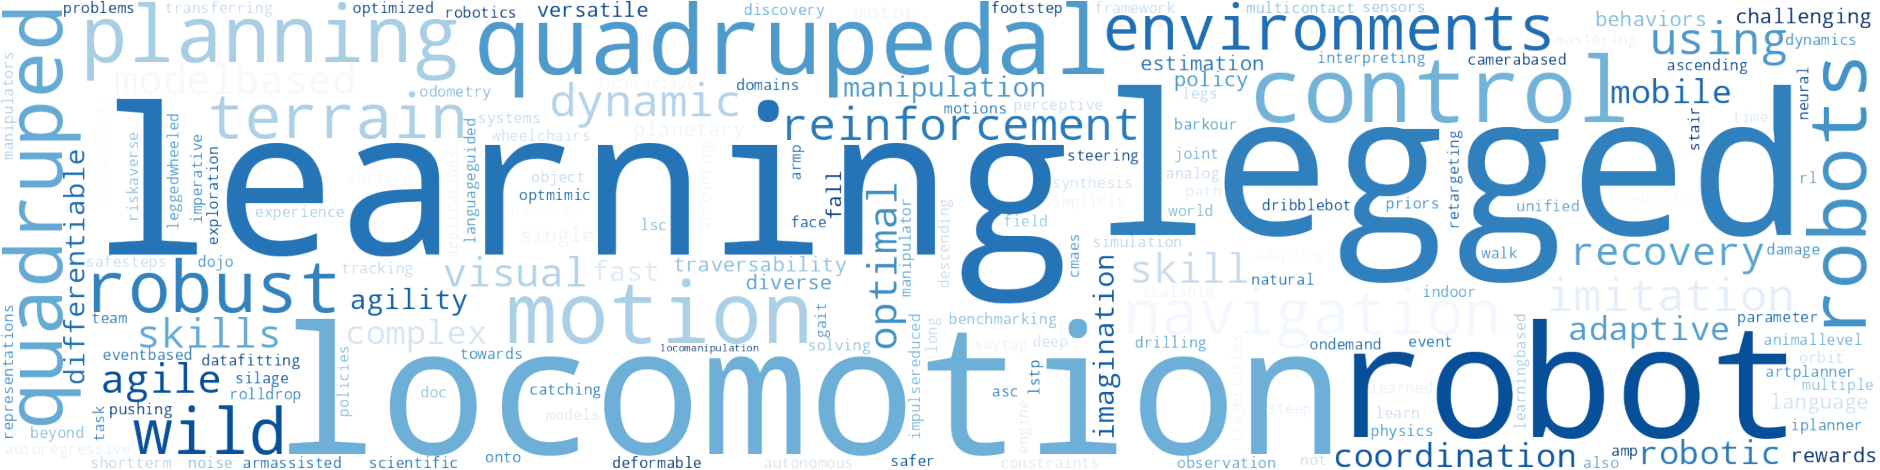
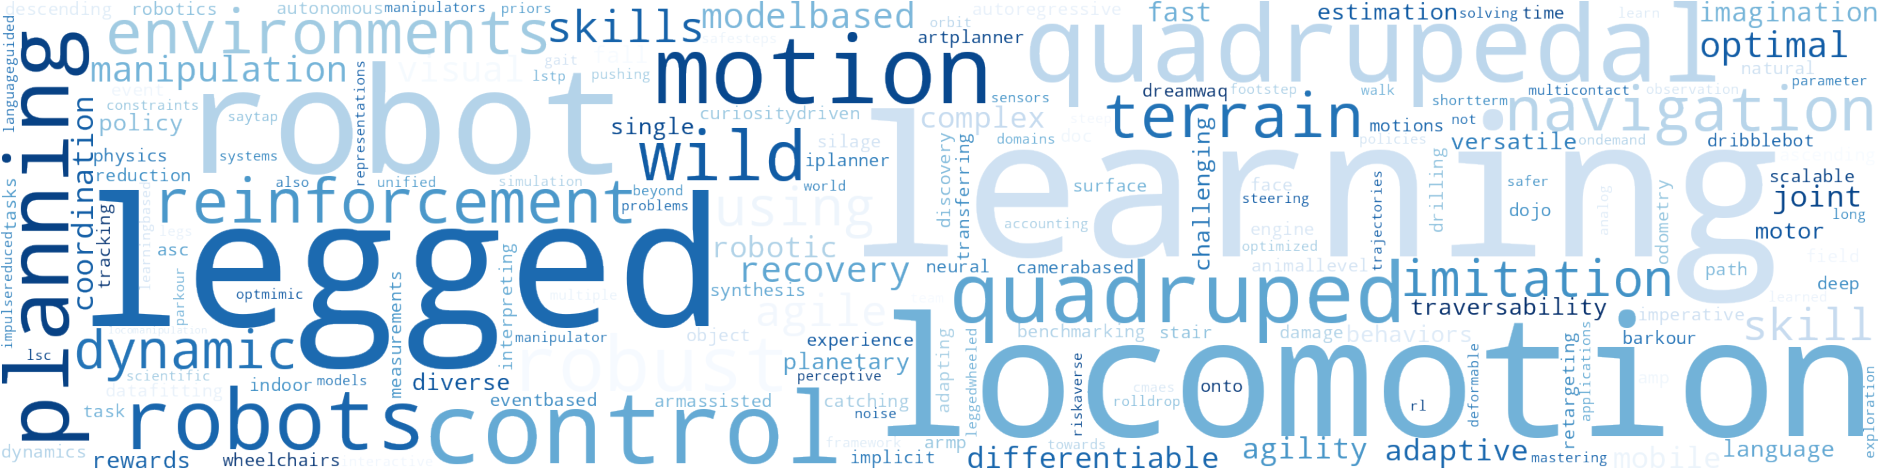
add papers in 2023

diff --git a/assets/word_cloud.py b/assets/word_cloud.py
@@ -20,21 +20,58 @@ stopwords = set([
 # 1. Get the paper list from the user
 # papers_input = input("Please provide the list of papers:\n")
 papers_input = """
-- [ANYmal - a highly mobile and dynamic quadrupedal robot](https://doi.org/10.1109/IROS.2016.7758092)
-- [Design of HyQ – a hydraulically and electrically actuated quadruped robot](https://doi.org/10.1177/0959651811402275)
-- [High-slope terrain locomotion for torque-controlled quadruped robots](https://link.springer.com/article/10.1007/s10514-016-9573-1)
-- [Meta Learning Shared Hierarchies](https://doi.org/10.48550/arXiv.1710.09767)
-- [Robot-Centric Elevation Mapping with Uncertainty Estimates](https://doi.org/10.1142/9789814623353_0051)
-- [Slip Detection and Recovery for Quadruped Robots](https://doi.org/10.1016/j.robot.2005.07.002)
-- [State Estimation for Legged Robots - Consistent Fusion of Leg Kinematics and IMU](https://doi.org/10.7551/mitpress/9816.001.0001)
-- [Survey of Numerical Methods for Trajectory Optimization](https://arc.aiaa.org/doi/10.2514/2.4231)
-- [Terrain-adaptive locomotion skills using deep reinforcement learning](https://dl.acm.org/doi/10.1145/2897824.2925881)
-- [Wholebody trajectory optimization for non-periodic dynamic motions on quadrupedal systems](https://ieeexplore.ieee.org/document/7989623)
+- [AMP in the wild: Learning robust, agile, natural legged locomotion skills](https://arxiv.org/abs/2304.10888)
+- [ARMP: Autoregressive Motion Planning for Quadruped Locomotion and Navigation in Complex Indoor Environments](https://arxiv.org/abs/2303.15900)
+- [ArtPlanner: Robust Legged Robot Navigation in the Field](https://arxiv.org/abs/2303.01420)
+- [ASC: Adaptive Skill Coordination for Robotic Mobile Manipulation](https://arxiv.org/abs/2304.00410)
+- [Autonomous Stair Ascending and Descending by Quadruped Wheelchairs](https://ieeexplore.ieee.org/abstract/document/10202377)
+- [Barkour: Benchmarking Animal-level Agility with Quadruped Robots](https://arxiv.org/abs/2305.14654)
+- [Curiosity-Driven Learning for Joint Locomotion and Manipulation Tasks](https://openreview.net/forum?id=QG_ERxtDAP-)
+- [DOC: Differentiable Optimal Control for Retargeting Motions onto Legged Robots](https://la.disneyresearch.com/wp-content/uploads/DOC_paper.pdf)
+- [Dojo: A Differentiable Physics Engine for Robotics](https://arxiv.org/abs/2203.00806)
+- [DreamWaQ: Learning Robust Quadrupedal Locomotion With Implicit Terrain Imagination via Deep Reinforcement Learning](https://arxiv.org/abs/2301.10602)
+- [DribbleBot: Dynamic Legged Manipulation in the Wild](https://gmargo11.github.io/dribblebot/rsc/dribblebot_paper.pdf)
+- [Drilling Task with a Quadruped Robot for Silage Face Measurements](https://www.researchgate.net/publication/370765569_Drilling_Task_with_a_Quadruped_Robot_for_Silage_Face_Measurements)
+- [Event Camera-based Visual Odometry for Dynamic Motion Tracking of a Legged Robot Using Adaptive Time Surface](https://arxiv.org/abs/2305.08962)
+- [Event-based Agile Object Catching with a Quadrupedal Robot](https://arxiv.org/abs/2303.17479)
+- [Fast Traversability Estimation for Wild Visual Navigation](https://arxiv.org/abs/2305.08510)
+- [Fast Traversability Estimation for Wild Visual Navigation](https://arxiv.org/abs/2305.08510)
+- [From Data-Fitting to Discovery: Interpreting the Neural Dynamics of Motor Control through Reinforcement Learning](https://arxiv.org/abs/2305.11107)
+- [iPlanner: Imperative Path Planning](https://arxiv.org/abs/2302.11434)
+- [Language to Rewards for Robotic Skill Synthesis](https://arxiv.org/abs/2306.08647)
+- [Learning a Single Policy for Diverse Behaviors on a Quadrupedal Robot using Scalable Motion Imitation](https://arxiv.org/abs/2303.15331)
+- [Learning and Adapting Agile Locomotion Skills by Transferring Experience](https://arxiv.org/abs/2304.09834)
+- [Learning Arm-Assisted Fall Damage Reduction and Recovery for Legged Mobile Manipulators](https://www.research-collection.ethz.ch/handle/20.500.11850/595246)
+- [Learning Complex Motor Skills for Legged Robot Fall Recovery](https://ieeexplore.ieee.org/document/10138662/)
+- [Learning Impulse-Reduced Gait for Quadruped Robot using CMA-ES](https://ieeexplore.ieee.org/abstract/document/10202519)
+- [Learning quadrupedal locomotion on deformable terrain](https://www.science.org/doi/full/10.1126/scirobotics.ade2256)
+- [Learning to Walk by Steering: Perceptive Quadrupedal Locomotion in Dynamic Environments](https://arxiv.org/abs/2209.09233)
+- [Legs as Manipulator: Pushing Quadrupedal Agility Beyond Locomotion](https://arxiv.org/abs/2303.11330)
+- [LSC: Language-guided Skill Coordination](https://languageguidedskillcoordination.github.io/)
+- [LSTP: Long Short-Term Motion Planning for Legged and Legged-Wheeled Systems](https://www.research-collection.ethz.ch/handle/20.500.11850/625515)
+- [Mastering Diverse Domains through World Models](https://arxiv.org/abs/2301.04104)
+- [Not Only Rewards But Also Constraints: Applications on Legged Robot Locomotion](https://arxiv.org/abs/2308.12517)
+- [OPT-Mimic: Imitation of Optimized Trajectories for Dynamic Quadruped Behaviors](https://arxiv.org/abs/2210.01247)
+- [ORBIT: A Unified Simulation Framework for Interactive Robot Learning Environments](https://ieeexplore.ieee.org/abstract/document/10107764)
+- [Reinforcement Learning for Legged Robots: Motion Imitation from Model-Based Optimal Control](https://arxiv.org/abs/2305.10989)
+- [Reinforcement Learning from Multiple Sensors via Joint Representations](https://arxiv.org/abs/2302.05342)
+- [RL + Model-based Control: Using On-demand Optimal Control to Learn Versatile Legged Locomotion](https://arxiv.org/abs/2305.17842)
+- [Robot Parkour Learning](https://openreview.net/forum?id=uo937r5eTE)
+- [Robust Quadrupedal Locomotion via Risk-Averse Policy Learning](https://arxiv.org/abs/2308.09405)
+- [Robust Recovery Motion Control for Quadrupedal Robots via Learned Terrain Imagination](https://arxiv.org/abs/2306.12712)
+- [Roll-Drop: accounting for observation noise with a single parameter](https://arxiv.org/abs/2304.13150)
+- [SafeSteps: Learning Safer Footstep Planning Policies for Legged Robots via Model-Based Priors](https://arxiv.org/abs/2307.12664.pdf)
+- [SayTap: Language to Quadrupedal Locomotion](https://arxiv.org/abs/2306.07580)
+- [Scientific Exploration of Challenging Planetary Analog Environments with a Team of Legged Robots](https://arxiv.org/abs/2307.10079)
+- [Solving Challenging Control Problems via Learning-based Motion Planning and Imitation](https://ieeexplore.ieee.org/abstract/document/10202250)
+- [Towards Legged Locomotion on Steep Planetary Terrain](https://www.research-collection.ethz.ch/handle/20.500.11850/625001)
+- [Versatile Multi-Contact Planning and Control for Legged Loco-Manipulation](https://www.science.org/doi/10.1126/scirobotics.adg5014)
+
 """
 
 # 2. Ask the user for the title of the picture
 # picture_title = input("Please provide the title for the picture (without the .png extension): ")
-picture_title = "2017"
+picture_title = "2023"
 
 # 3. Extract the words from the titles (excluding the links)
 titles = re.findall(r"\[(.*?)\]\(.*?\)", papers_input)

diff --git a/README.md b/README.md
@@ -53,6 +53,7 @@
 - [ASC: Adaptive Skill Coordination for Robotic Mobile Manipulation](https://arxiv.org/abs/2304.00410)
 - [Autonomous Stair Ascending and Descending by Quadruped Wheelchairs](https://ieeexplore.ieee.org/abstract/document/10202377)
 - [Barkour: Benchmarking Animal-level Agility with Quadruped Robots](https://arxiv.org/abs/2305.14654)
+- [Curiosity-Driven Learning for Joint Locomotion and Manipulation Tasks](https://openreview.net/forum?id=QG_ERxtDAP-)
 - [DOC: Differentiable Optimal Control for Retargeting Motions onto Legged Robots](https://la.disneyresearch.com/wp-content/uploads/DOC_paper.pdf)
 - [Dojo: A Differentiable Physics Engine for Robotics](https://arxiv.org/abs/2203.00806)
 - [DreamWaQ: Learning Robust Quadrupedal Locomotion With Implicit Terrain Imagination via Deep Reinforcement Learning](https://arxiv.org/abs/2301.10602)
@@ -82,6 +83,7 @@
 - [Reinforcement Learning for Legged Robots: Motion Imitation from Model-Based Optimal Control](https://arxiv.org/abs/2305.10989)
 - [Reinforcement Learning from Multiple Sensors via Joint Representations](https://arxiv.org/abs/2302.05342)
 - [RL + Model-based Control: Using On-demand Optimal Control to Learn Versatile Legged Locomotion](https://arxiv.org/abs/2305.17842)
+- [Robot Parkour Learning](https://openreview.net/forum?id=uo937r5eTE)
 - [Robust Quadrupedal Locomotion via Risk-Averse Policy Learning](https://arxiv.org/abs/2308.09405)
 - [Robust Recovery Motion Control for Quadrupedal Robots via Learned Terrain Imagination](https://arxiv.org/abs/2306.12712)
 - [Roll-Drop: accounting for observation noise with a single parameter](https://arxiv.org/abs/2304.13150)
@@ -417,15 +419,11 @@
 <summary><b>Homepages</b></summary>
 
 - [Biomimetic Robotics Lab - MIT](https://biomimetics.mit.edu/)
-- [Boardwalk Robotics](https://boardwalkrobotics.com/Home.html)
 - [Computational Robotics Lab - ETH](http://crl.ethz.ch/)
-- [Dunamic Robotics Laboratory - Oregon State University](https://mime.engineering.oregonstate.edu/research/drl/)
 - [Dynamic and Autonomous Robotic Systems (DARoS) Laboratory - University of Massachusetts Amherst](https://groups.cs.umass.edu/daros/sample-home-page/)
 - [Dynamic Legged Systems Lab - Istituto Italiano di Tecnologia](https://www.iit.it/web/dynamic-legged-systems)
 - [Dynamic Robot Systems Group - University of Oxford](https://ori.ox.ac.uk/labs/drs/)
-- [Human Centered Robotics Laboratory](http://sites.utexas.edu/hcrl/)
 - [Hybrid Robotics Lab - UC Berkely](https://hybrid-robotics.berkeley.edu/)
-- [IHMC Robotics Lab - IHMC](https://robots.ihmc.us/)
 - [RAI Lab - KAIST](https://www.railab.kaist.ac.kr/)
 - [RcLab - Kookmin University](https://rclab.kookmin.ac.kr/home)
 - [Robomechanics Lab - Carnegie Mellon University](https://www.cmu.edu/me/robomechanicslab/)
@@ -433,6 +431,21 @@
 - [Robotics Innovatory - SungKyunKwan University](https://mecha.skku.ac.kr/roboticsinnovatory/index.do)
 - [Stochastic Robotics Lab (StochLab) - IISc](https://www.stochlab.com/)
 - [The Robotics Lab - IDSIA](https://idsia-robotics.github.io/)
+
+</details>
+
+## Related Materials
+
+<details>
+<summary><b>More</b></summary>
+
+> Extended to Bipedal(Legged) Robots
+
+- [Boardwalk Robotics - Nadia](https://boardwalkrobotics.com/Nadia.html)
+- [Dynamic Robotics Laboratory - Oregon State University](https://mime.engineering.oregonstate.edu/research/drl/)
+- [Human Centered Robotics Laboratory - University of Texas at Austin](http://sites.utexas.edu/hcrl/)
+- [Institute for Human and Machine Cognition - Nadia](https://robots.ihmc.us/)
+
 </details>
 
 ---
